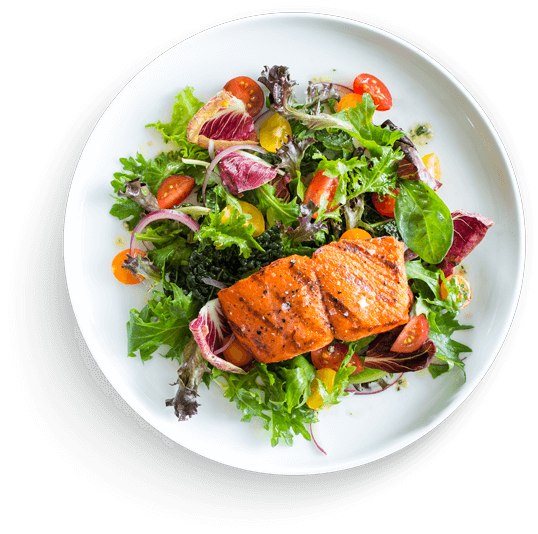
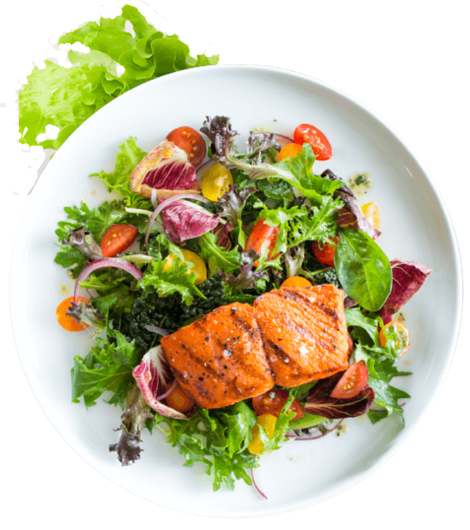
New edits

diff --git a/index.html b/index.html
@@ -22,45 +22,55 @@
 
 <body>
   <section id="title">
-    <div class="container-fluid top-container">
-      <nav class="navbar bg-transparent">
-        <a class="navbar-brand" href="">eatiz</a>
-        <a class="navbar-link" href="">Menu One</a>
-        <a class="navbar-link" href="">Menu Two</a>
-        <a class="navbar-link" href="">Menu Three</a>
-        <a class="navbar-link" href="">Menu Four</a>
-        <button class="navbar-toggler navbar-link" type="button" data-toggle="collapse" data-target="#navbarText" aria-controls="navbarText" aria-expanded="false" aria-label="Toggle navigation">
-          <img class="user" src="Images/User.jpg" alt="">
-          User
-          <span class="navbar-toggler-icon"><i class="fa-solid fa-caret-down"></i></span>
-        </button>
-        <div class="collapse navbar-collapse justify-end" id="navbarText">
-          <ul class="navbar-nav ml-auto">
-            <li class="nav-item">
-              <a class="navbar-link" href="#footer">Profile</a>
-            </li>
-            <li class="nav-item">
-              <a class="navbar-link" href="#pricing">Orders</a>
-            </li>
-            <li class="nav-item">
-              <a class="navbar-link" href="#cta">Log Out</a>
-            </li>
-          </ul>
-        </div>
+    <div class="top-container container-fluid">
+      <nav class="navbar navbar-expand-lg navbar-dark">
+          <a class="navbar-brand" href="">eatiz</a>
+          <button class="navbar-toggler" type="button" data-bs-toggle="collapse" data-bs-target="#toggler" aria-controls="toggler" aria-expanded="false" aria-label="Toggle navigation">
+            <span class="navbar-toggler-icon"></span>
+          </button>
+          <div class="collapse navbar-collapse" id="toggler" >
+            <ul class="navbar-nav ml-auto">
+              <li class="nav-item">
+                <a class="navbar-link" href="#">Menu One</a>
+              </li>
+              <li class="nav-item">
+                <a class="navbar-link" href="#">Menu Two</a>
+              </li>
+              <li class="nav-item">
+                <a class="navbar-link" href="#">Menu Three</a>
+              </li>
+              <li class="nav-item">
+                <a class="navbar-link" href="#">Menu Four</a>
+              </li>
+              <li class="nav-item">
+                <div class="d-flex justify-content-end">
+                  <a class="navbar-link" href="#"><img class="user" src="Images/User.jpg" alt=""> User </a>
+                </div>
+              </li>
+            </ul>
+          </div>
       </nav>
+
+
+
       <div class="title-text">
-        <h1 class="top-heading">Discover Restaurants </h1>
-        <h1 class="bottom-heading">& Delicious Food</h1>
-        <div class="input-group search">
-          <input type="text" class="form-control" placeholder="Search Restaurant/Food" aria-label="" aria-describedby="basic-addon2">
-          <div class="input-group-append">
-            <button class="btn btn-danger" type="button">Go</button>
+        <div class="row">
+          <div class="col-lg-6 col-sm-8">
+            <h1 class="top-heading">Discover Restaurants </h1>
+            <h1 class="bottom-heading">& Delicious Food</h1>
+            <div class="input-group search">
+              <input type="text" class="form-control" placeholder="Search Restaurant/Food" aria-label="" aria-describedby="basic-addon2">
+              <div class="input-group-append">
+                <button class="btn btn-danger" type="button">Go</button>
+              </div>
+            </div>
+          </div>
+          <div class="col-lg-6 col-md-4">
+            <img class="title-image" src="Images/food-plate.png" alt="food">
           </div>
         </div>
       </div>
 
-      <img class="title-leaf" src="Images/title-leaf.png" alt="food">
-      <img class="title-image" src="Images/food-plate.png" alt="food">
       <div class="box top-box"></div>
     </div>
   </section>
@@ -103,14 +113,14 @@
             <p class="card-text">Lorem ipsum dolor sit amet, consectetur adipiscing elit. Integer posuere erat a ante.</p>
           </div>
           <div class="card">
-              <img class="card-img-top" src="Images/food.png" alt="">
+            <img class="card-img-top" src="Images/food.png" alt="">
           </div>
 
         </div>
 
         <div class="card">
           <div class="card">
-              <img class="card-img-top" src="Images/Delivery.png" alt="">
+            <img class="card-img-top" src="Images/Delivery.png" alt="">
           </div>
           <div class="card-body">
             <h5 class="card-title">Free Home Delivery</h5>
@@ -130,18 +140,17 @@
     <div class="container-fluid download">
       <div class="box third-box"></div>
       <div class="row">
-        <div class="col-md-6">
+        <div class="col-md-8">
           <h2 class=>Download App</h2>
           <h2 class="download-heading">for Exciting Deals</h2>
           <p class="download-text">Loren Impus........</p>
           <button type="button" name="button" class="btn btn-dark btn-lg download-button"><img class="button-left" src="Images/GPlay.png" alt=""></button>
           <button type="button" name="button" class="btn btn-dark btn-lg download-button"><img class="button-right" src="Images/AppStore.png" alt=""></button>
         </div>
-      <div class="col-md-6">
-      <img class="phone" src="Images/Phone.png" alt="">
-        <p> Ewweeee</p>
-    </div>
-  </div>
+        <div class="col-md-4">
+          <img class="phone" src="Images/Phone.png" alt="">
+        </div>
+      </div>
 
     </div>
   </section>

diff --git a/style.css b/style.css
@@ -36,18 +36,18 @@ p {
 }
 
 .container-fluid{
-  padding: 3% 5% 5%;
+  padding: 3% 3% 5%;
 }
 
 /* Section title */
 .top-container {
-  position: relative;
   padding-top: 0;
   padding-bottom: 0;
 }
 
+
 .navbar-brand {
-  color: #B73E3E;
+  color: #B73E3E !important;
   font-family: 'Kalam', cursive;
   font-size: 80px;
 }
@@ -61,6 +61,9 @@ p {
 
 .nav-item {
   padding: 0 18px;
+}
+.navbar-toggler{
+  background-color: #243A73;
 }
 
 /* Title Text */
@@ -100,26 +103,21 @@ p {
   right: 0;
   z-index: -1;
 }
-.carousel{
-  position: absolute;
-}
-.title-leaf {
-  position: absolute;
-  width: 250px;
-  height: 200px;
-  right: 230px;
-  top: 150px;
-  z-index: 1;
-}
 
 .title-image {
-  position: absolute;
+  /* position: absolute;
   right: 70px;
-  top: 180px;
+  top: 180px; */
   z-index: 1;
   width: 400px;
+  margin-bottom: 70px;
+  margin-top: 0px;
 }
-
+@media screen(max-width: 900px){
+  .title-image{
+    width: 250px;
+  }
+}
 
 /* Services Section */
 .services{
@@ -169,20 +167,20 @@ p {
 }
 .phone{
 
-  position: relative;
+  /* position: relative;
   left: 300px;
-  bottom: 270px;
+  bottom: 270px; */
   z-index: 1;
   width: 200px;
   height: 350px;
 
 }
 .download-button{
-  margin: 3% 5% 3% 0;
+  margin: 3% 4% 3% 0;
   padding: 0;
+  border-radius: 0;
 }
 .button-left{
-  margin-left: 120px;
   height: 50px;
   width: 100px;
 }
